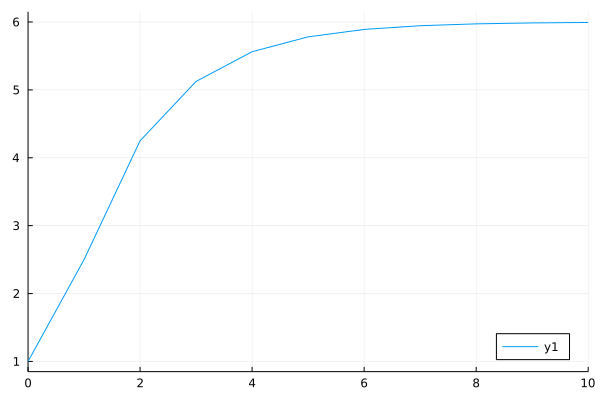
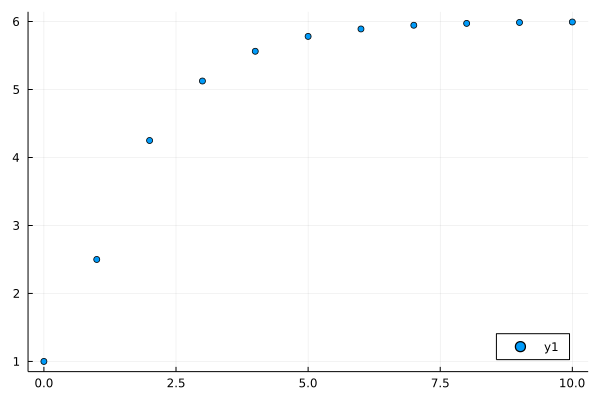
Fix fractional differences plot

diff --git a/docs/src/differences.md b/docs/src/differences.md
@@ -33,7 +33,7 @@ fun(x) = 0.5*x+1
 α=0.5;x0=1;
 T=1; h=0.1
 t, y=solve(fun, α, x0, T, h, PECEDifference())
-plot(t, y, xlims=(0, 10), legend=:bottomright)
+plot(t, y, seriestype=:scatter, legend=:bottomright)
 ```
 
 And plot the solution:
